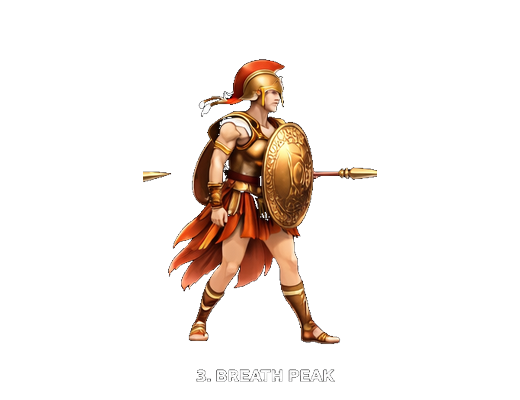
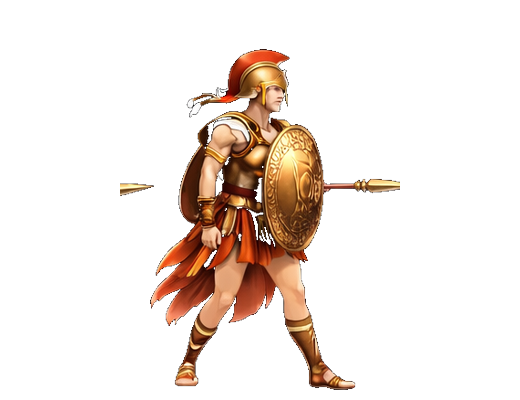
auto-commit for 45f0845d-30ac-472f-bf12-ff4a6a8b4768

Changed region(s): [[0.2154, 0.12, 0.7692, 0.99]]

diff --git a/frontend/components/ui/HeroHopliteIdleLoop.tsx b/frontend/components/ui/HeroHopliteIdleLoop.tsx
@@ -46,16 +46,16 @@ const FRAME_DURATIONS_MS = [
 // Canvas nativo dei frame (520×400, feet baseline comune a tutta la suite)
 const FRAME_W = 520;
 const FRAME_H = 400;
-// Feet Y reale misurato dal bbox alpha dei PNG idle: 382 (non 390!)
+// Feet Y REALE dei nuovi PNG idle rigenerati (allineato ad Affondo: 390)
 const FEET_CX_IN_FRAME = 260;
-const FEET_CY_IN_FRAME = 382;
+const FEET_CY_IN_FRAME = 390;
 
 // Allineamento feet-to-ground (stesso schema di Affondo/GuardiaFerrea)
 const RIG_FEET_Y_NORM = 800 / 1024;
 const RIG_BODY_H_NORM = 0.683;
-// Body height REALE misurata dai PNG idle (bbox 59..382 = 323px).
-// Prima era 341 (preso dall'Affondo) → causava render ~5.3% più piccolo.
-const FRAME_BODY_H_PX = 323;
+// Body height REALE dei nuovi PNG idle rigenerati: 341 (identica ad Affondo
+// → zero differenza di scala tra idle/attack/skill).
+const FRAME_BODY_H_PX = 341;
 
 type Props = {
   size: number;
